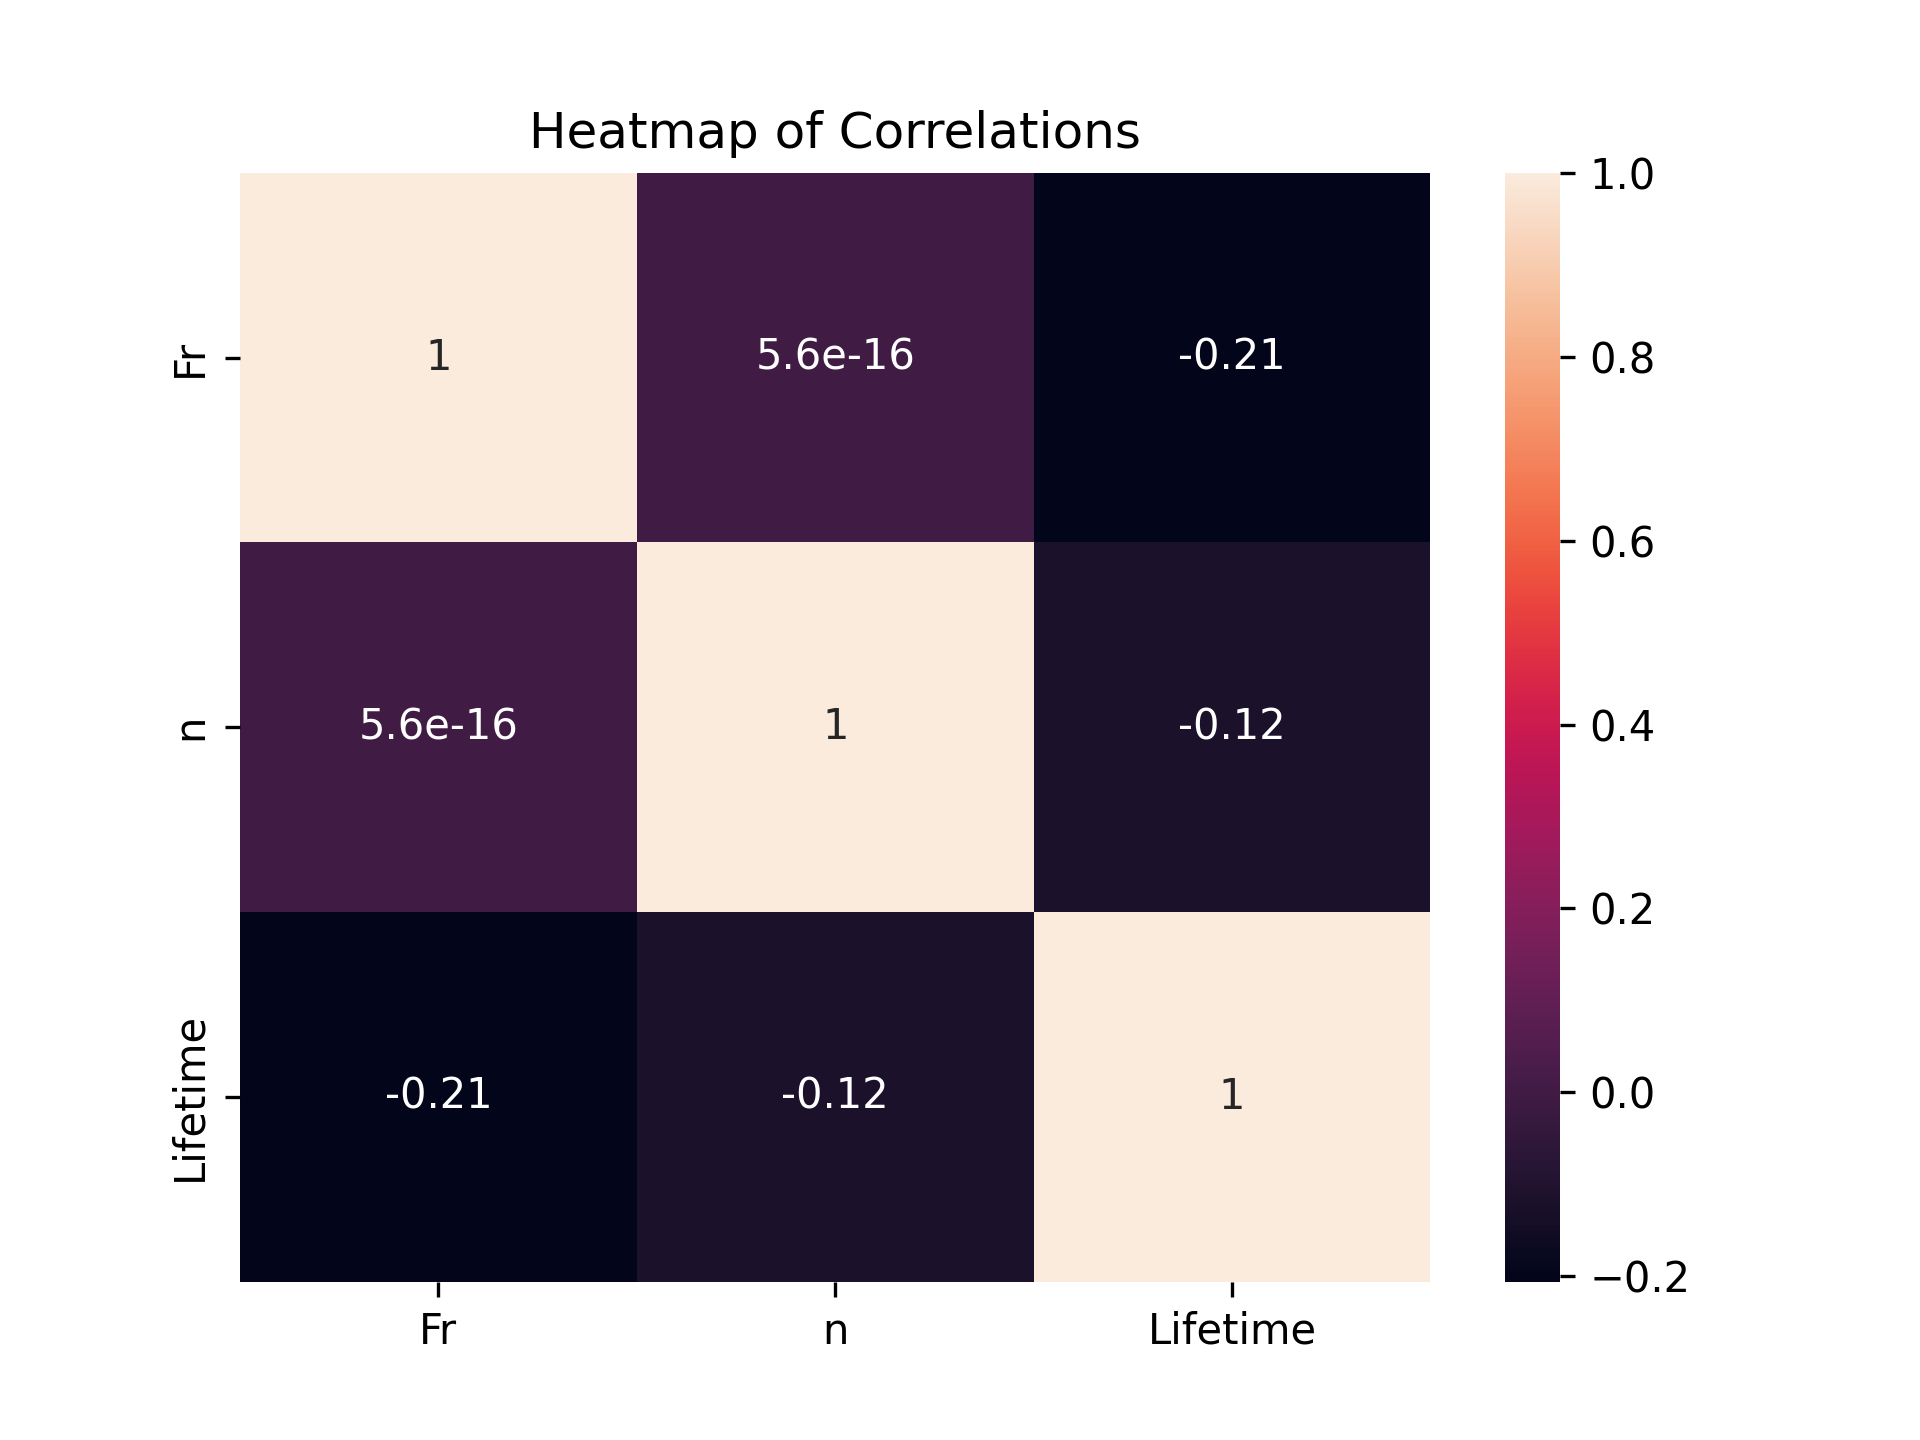
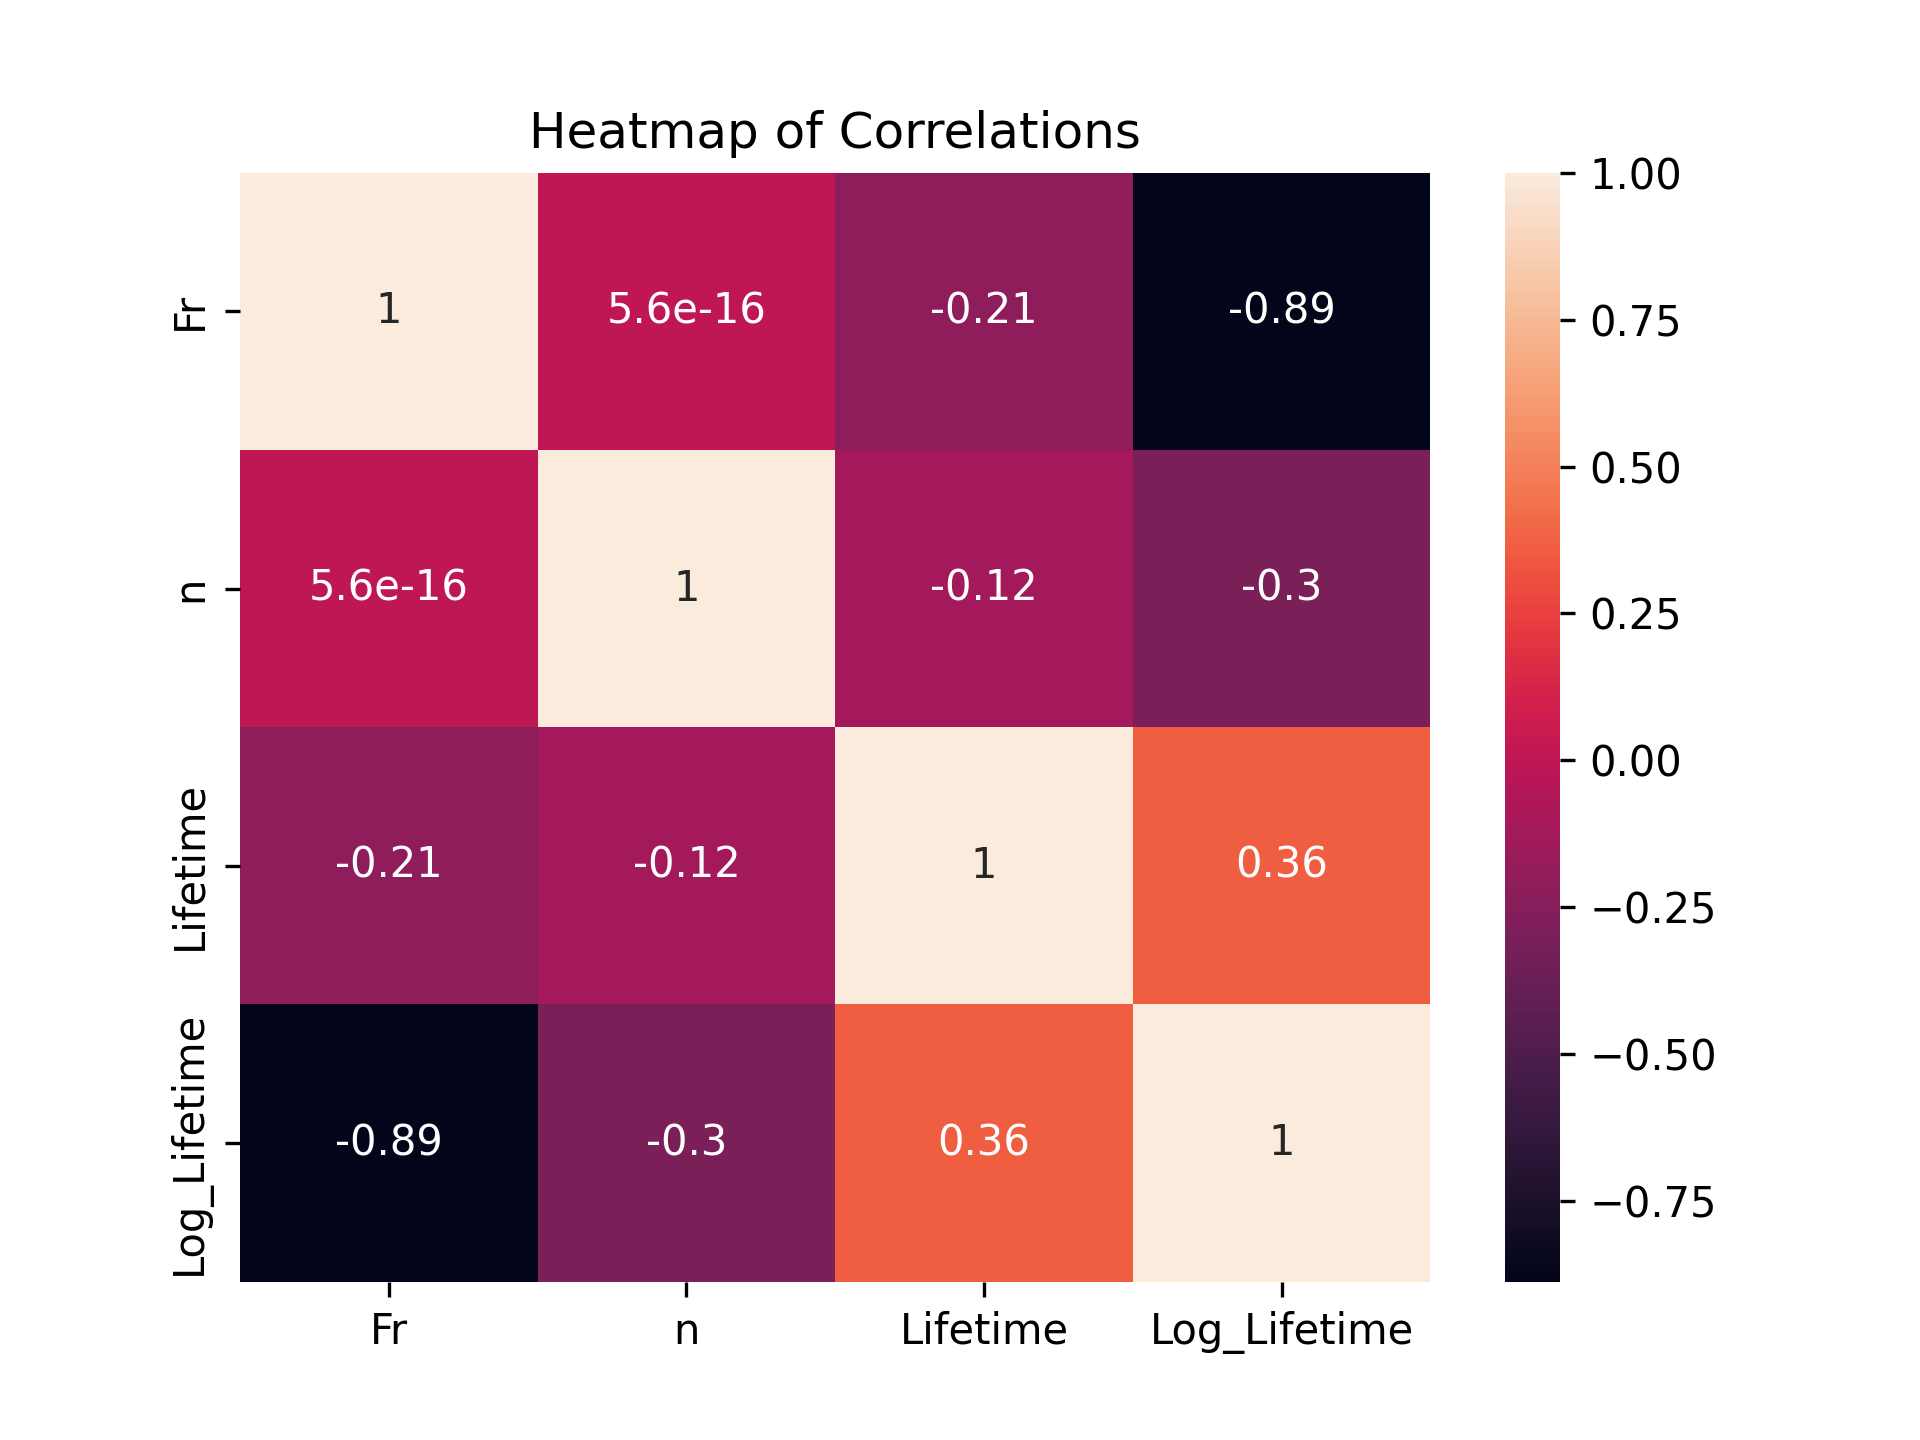
feat: add 3d plot for log(Lifetime)

diff --git a/src/shaft-bearing/shaft-bearing-eda.py b/src/shaft-bearing/shaft-bearing-eda.py
@@ -6,6 +6,9 @@ import numpy as np
 # Load the data
 data = pd.read_csv('data/ShaftBearing/data.csv')
 
+# Transform 'Lifetime' column using Logarithm and add it as a new column
+data['Log_Lifetime'] = np.log(data['Lifetime'])
+
 # Basic information about the data
 print('\nFirst few rows of the data:')
 print(data.head())
@@ -16,33 +19,31 @@ print(data.describe())
 print('\nMissing Values:')
 print(data.isnull().sum())
 
-# Distribution Plots (Logarithmic Scale for Lifetime)
-fig1, ax1 = plt.subplots(1, 3, figsize=(15, 5))
+# Distribution Plots (logarithm transformed Lifetime)
+fig, ax = plt.subplots(1, 3, figsize=(15, 5))
 for i, column in enumerate(data.columns):
-    if column == 'Lifetime' or column == 'Fr*n' or column == 'Fr/n' or column == 'LifetimeFunc':
-        # Create a temporary variable for Lifetime, replacing 0 with a very small number
-        temp_column = data[column].replace(0, 0.0001)
-        sns.histplot(np.log(temp_column), ax=ax1[i%3])
-        ax1[i%3].set_title('Logarithmic Scale for ' + column)
-    else:
+    if column == 'Lifetime':
+        sns.histplot(data['Log_Lifetime'], ax=ax[i%3])
+        ax[i%3].set_title('Logarithmic Scale for ' + column)
+    elif column != 'Log_Lifetime':
         n_bins = data[column].nunique()
-        sns.histplot(data[column], bins=n_bins, ax=ax1[i%3])
-        ax1[i%3].set_title('Distribution of ' + column)
-fig1.suptitle('Distribution Plots')
-fig1.savefig('docs/assets/bearings-eda/histogram.png', dpi=300)
+        sns.histplot(data[column], bins=n_bins, ax=ax[i%3])
+        ax[i%3].set_title('Distribution of ' + column)
+fig.suptitle('Distribution Plots')
+fig.savefig('docs/assets/bearings-eda/histogram.png', dpi=300)
 
 # Boxplots
-fig4, ax4 = plt.subplots(1, 3, figsize=(15, 5))
+fig, ax = plt.subplots(1, 3, figsize=(15, 5))
 for i, column in enumerate(data.columns):
-    sns.boxplot(x=data[column], ax=ax4[i%3])
-    ax4[i%3].set_title('Boxplot of ' + column)
-fig4.suptitle('Boxplots')
-fig4.savefig('docs/assets/bearings-eda/boxplot.png', dpi=300)
+    if column != 'Log_Lifetime':
+        sns.boxplot(x=data[column], ax=ax[i%3])
+        ax[i%3].set_title('Boxplot of ' + column)
+fig.suptitle('Boxplots')
+fig.savefig('docs/assets/bearings-eda/boxplot.png', dpi=300)
 
 # Pairplot
 data_pair = data.copy()
-data_pair['Lifetime_log'] = np.log(data_pair['Lifetime'])
-pair = sns.pairplot(data_pair, hue='Lifetime_log', palette='crest')
+pair = sns.pairplot(data_pair, hue='Log_Lifetime', palette='crest')
 plt.subplots_adjust(top=0.95)
 plt.suptitle('Pairplot of Fr, n, Lifetime and interaction features')
 pair.savefig('docs/assets/bearings-eda/pairplot.png', dpi=300)
@@ -52,20 +53,30 @@ corr = data.corr()
 print('\nCorrelation Matrix:')
 print(corr)
 
-fig2 = plt.figure()
+fig = plt.figure()
 sns.heatmap(corr, annot=True)
 plt.title('Heatmap of Correlations')
-fig2.savefig('docs/assets/bearings-eda/correlation-matrix.png', dpi=300)
+fig.savefig('docs/assets/bearings-eda/correlation-matrix.png', dpi=300)
 
 # 3D Plot
-fig3 = plt.figure()
-ax3 = fig3.add_subplot(111, projection = '3d')
-ax3.scatter(data['Fr'], data['n'], data['Lifetime'])
-ax3.set_xlabel('Fr')
-ax3.set_ylabel('n')
-ax3.set_zlabel('Lifetime')
+fig = plt.figure()
+ax = fig.add_subplot(111, projection = '3d')
+ax.scatter(data['Fr'], data['n'], data['Lifetime'])
+ax.set_xlabel('Fr')
+ax.set_ylabel('n')
+ax.set_zlabel('Lifetime')
 plt.title('3D Plot of Fr, n and Lifetime')
-fig3.savefig('docs/assets/bearings-eda/3dplot.png', dpi=300)
+fig.savefig('docs/assets/bearings-eda/3dplot.png', dpi=300)
+
+# 3D Plot of logarithm transformed Lifetime
+fig = plt.figure()
+ax = fig.add_subplot(111, projection = '3d')
+ax.scatter(data['Fr'], data['n'], data['Log_Lifetime'])
+ax.set_xlabel('Fr')
+ax.set_ylabel('n')
+ax.set_zlabel('Log_Lifetime')
+plt.title('3D Plot of Fr, n and Log_Lifetime')
+fig.savefig('docs/assets/bearings-eda/3dplot-log.png', dpi=300)
 
 # Estimate Lifetime Function and calculate Residuals
 data['LifetimeFunc'] = 4.13786 * 10**17 * (data['Fr']) ** (-10/3) * (data['n']) ** (-1.0)
@@ -74,13 +85,13 @@ print('\nResiduals:')
 print(data['Residuals (% -1)'].describe())
 
 # 3D Plot of Residuals
-fig32 = plt.figure()
-ax32 = fig32.add_subplot(111, projection = '3d')
-ax32.scatter(data['Fr'], data['n'], data['Residuals (% -1)'])
-ax32.set_xlabel('Fr')
-ax32.set_ylabel('n')
-ax32.set_zlabel('Residuals')
+fig = plt.figure()
+ax = fig.add_subplot(111, projection = '3d')
+ax.scatter(data['Fr'], data['n'], data['Residuals (% -1)'])
+ax.set_xlabel('Fr')
+ax.set_ylabel('n')
+ax.set_zlabel('Residuals')
 plt.title('3D Plot of Fr, n and Residuals')
-fig32.savefig('docs/assets/bearings-eda/3dplot-residuals.png', dpi=300)
+fig.savefig('docs/assets/bearings-eda/3dplot-residuals.png', dpi=300)
 
 plt.show()
